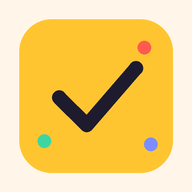
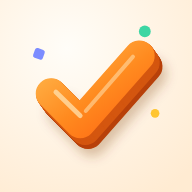
Nouvelle icône : grosse coche orange en relief sur fond clair
Claude-Session: https://claude.ai/code/session_01FskBgBYT5MUoVm2MxwM9Ap

diff --git a/sw.js b/sw.js
@@ -1,5 +1,5 @@
 // Mes trucs : fonctionne hors ligne. Change VERSION à chaque mise à jour du code.
-const VERSION = 'mes-trucs-v4';
+const VERSION = 'mes-trucs-v5';
 const FILES = ['./', './index.html', './manifest.webmanifest', './icon-192.png', './icon-512.png', './icon-maskable-512.png', './sc-add.png', './sc-tonight.png', './sc-today.png', './sc-tomorrow.png'];
 
 self.addEventListener('install', e => {
